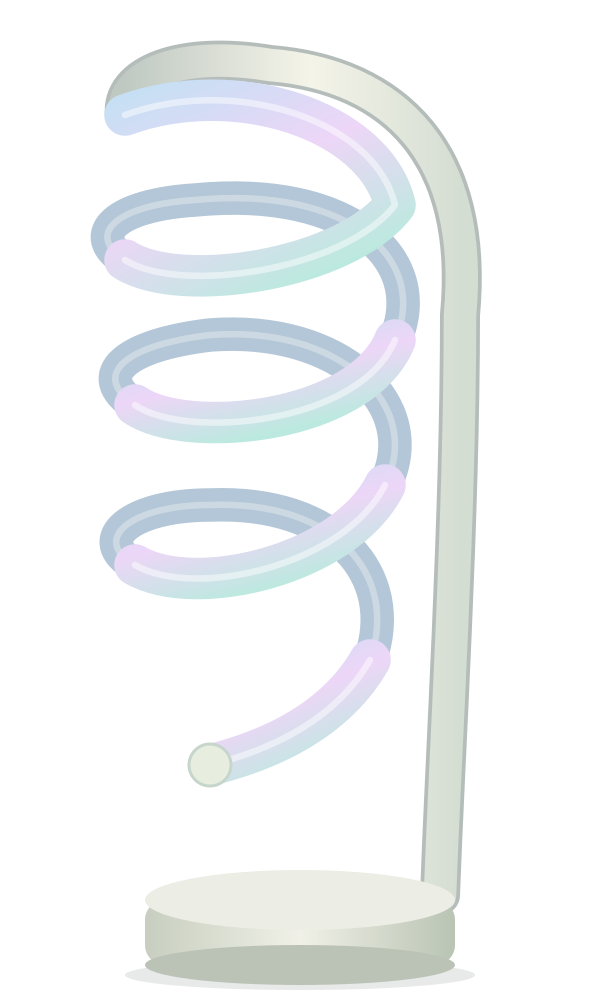
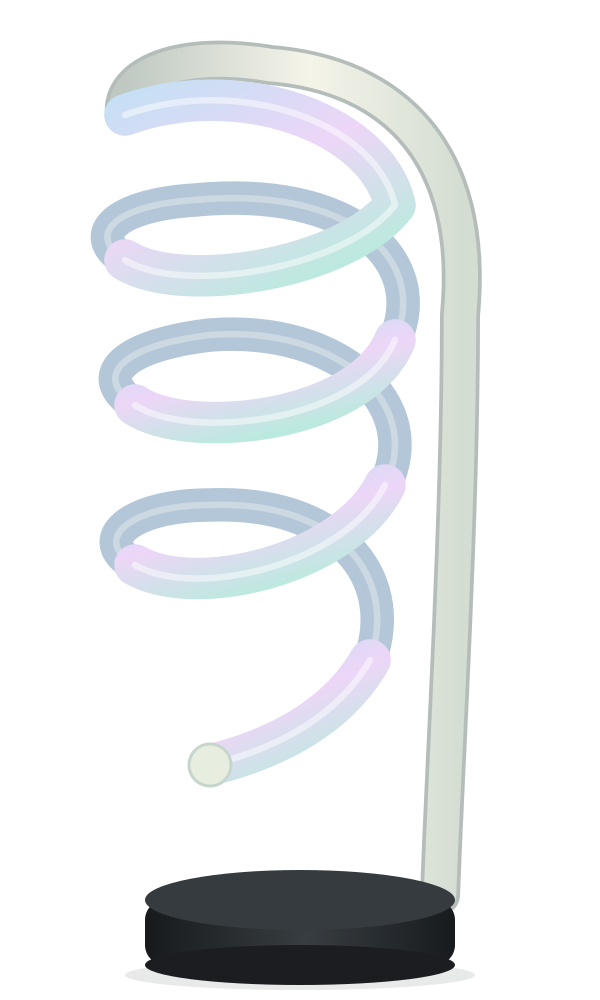
Match the Corkscrew base to the shared lamp palette

Changed region(s): [[0.24, 0.868, 0.78, 0.992]]

diff --git a/mobile/src/lamp-artwork.js b/mobile/src/lamp-artwork.js
@@ -6,17 +6,12 @@ let sequence=0;
 const escape=value=>String(value).replace(/[&<>"']/g,char=>({'&':'&amp;','<':'&lt;','>':'&gt;','"':'&quot;',"'":'&apos;'}[char]));
 export const LAMP_ARTWORK_DARK_PALETTE=Object.freeze({frame:'#93a196',baseStart:'#849187',baseMiddle:'#9daa9f',baseEnd:'#7f8d81',baseTop:'#abb6a9',baseBottom:'#859287'});
 
-function blackBase(id,tones){
- return `<g class="lamp-artwork-base" data-base="dark"><ellipse cx="60" cy="195" rx="35" ry="3" fill="#252b2920"/>
- <rect class="lamp-artwork-base-side" x="31" y="180" width="58" height="13" rx="3" fill="url(#${id}-base)"/>
- <ellipse class="lamp-artwork-base-bottom" cx="60" cy="193" rx="29" ry="4" fill="${tones?.baseBottom||'#1b1d20'}"/>
- <ellipse class="lamp-artwork-base-top" cx="60" cy="180" rx="29" ry="5" fill="${tones?.baseTop||'#363b40'}"/></g>`;
-}
-function whiteBase(id){
- return `<g class="lamp-artwork-base" data-base="light"><ellipse cx="60" cy="195" rx="35" ry="3" fill="#252b291a"/>
- <rect class="lamp-artwork-base-side" x="29" y="180" width="62" height="13" rx="4" fill="url(#${id}-white-base)"/>
- <ellipse class="lamp-artwork-base-bottom" cx="60" cy="193" rx="31" ry="4" fill="#bbc3b7"/>
- <ellipse class="lamp-artwork-base-top" cx="60" cy="180" rx="31" ry="6" fill="#ecede4"/></g>`;
+function blackBase(id,tones,wide=false){
+ const radius=wide?31:29;
+ return `<g class="lamp-artwork-base" data-base="dark"><ellipse cx="60" cy="195" rx="35" ry="3" fill="${wide?'#252b291a':'#252b2920'}"/>
+ <rect class="lamp-artwork-base-side" x="${60-radius}" y="180" width="${radius*2}" height="13" rx="${wide?4:3}" fill="url(#${id}-base)"/>
+ <ellipse class="lamp-artwork-base-bottom" cx="60" cy="193" rx="${radius}" ry="4" fill="${tones?.baseBottom||'#1b1d20'}"/>
+ <ellipse class="lamp-artwork-base-top" cx="60" cy="180" rx="${radius}" ry="${wide?6:5}" fill="${tones?.baseTop||'#363b40'}"/></g>`;
 }
 const ribbon=(path,id,width=8)=>`<path class="lamp-artwork-ribbon" d="${path}" stroke="url(#${id}-light)" stroke-width="${width}"/><path d="${path}" stroke="#ffffff" stroke-opacity=".48" stroke-width="1.3"/>`;
 
@@ -41,7 +36,7 @@ function largeHelix(id,tones){
  ${ribbon('M102 100 C80 88 42 117 31 143 C19 167 37 179 60 177',id,8.8)}
  </g>${blackBase(id,tones)}`;
 }
-function corkscrew(id){
+function corkscrew(id,tones){
  // A separate straight support on the right carries the free hanging spiral.
  const support='M88 179 C89 151 92 104 92 63 C95 31 79 15 54 13 C36 10 24 15 25 23';
  const coil='M25 23 C47 15 75 24 79 41 C69 54 36 59 25 52 C17 47 23 41 39 40 C70 37 86 52 79 68 C72 85 37 88 27 81 C18 75 25 69 42 67 C68 65 85 81 77 97 C69 113 39 120 27 113 C18 108 26 101 42 101 C67 100 80 115 74 132 C66 146 50 151 42 153';
@@ -55,7 +50,7 @@ function corkscrew(id){
  ${ribbon('M77 97 C69 113 39 120 27 113',id,8.3)}
  ${ribbon('M74 132 C66 146 50 151 42 153',id,8.3)}
  <circle cx="42" cy="153" r="4.2" fill="#e7eddf" stroke="#c6d6cc" stroke-width=".6"/>
- </g>${whiteBase(id)}`;
+ </g>${blackBase(id,tones,true)}`;
 }
 function knot(id,tones){
  // An asymmetric outer oval wraps a small standing loop and a diagonal front ribbon.
@@ -83,6 +78,5 @@ export function lampArtworkSvg(style='helix',{className='lamp-artwork',label,idP
  <linearGradient id="${id}-light" x1="0" y1="0" x2=".7" y2="1"><stop stop-color="${colors[0]}"/><stop offset=".5" stop-color="${colors[1]}"/><stop offset="1" stop-color="${colors[2]}"/></linearGradient>
  <linearGradient id="${id}-support" x1="0" y1="0" x2="1" y2="0"><stop stop-color="#bfc9c2"/><stop offset=".55" stop-color="#f5f4e9"/><stop offset="1" stop-color="#d4ddd2"/></linearGradient>
  <linearGradient id="${id}-base" x1="0" y1="0" x2="1" y2="0"><stop class="lamp-artwork-base-start" stop-color="${tones?.baseStart||'#161a1c'}"/><stop class="lamp-artwork-base-middle" offset=".52" stop-color="${tones?.baseMiddle||'#383d41'}"/><stop class="lamp-artwork-base-end" offset="1" stop-color="${tones?.baseEnd||'#171b1e'}"/></linearGradient>
- <linearGradient id="${id}-white-base" x1="0" y1="0" x2="1" y2="0"><stop stop-color="#c7cebf"/><stop offset=".5" stop-color="#f0f0e7"/><stop offset="1" stop-color="#b9c4b3"/></linearGradient>
  </defs>${body}</svg>`;
 }

diff --git a/mobile/src/app-v2.js b/mobile/src/app-v2.js
@@ -36,7 +36,7 @@ export function mountAppV2(api){
     const power=document.createElement('button');power.type='button';power.className='v2-home-power';power.dataset.v2='power';power.dataset.id=id;power.setAttribute('aria-pressed',String(observed.lighting.power));power.setAttribute('aria-label',(observed.lighting.power?'Turn off ':'Turn on ')+(group?groupName(id,group.name):entry.name));power.innerHTML='<svg viewBox="0 0 24 24" aria-hidden="true"><path d="M12 3v8M7 5a8 8 0 1 0 10 0"/></svg>';wrapper.append(power);
   }
   if(focused?.action){const replacement=[...home.querySelectorAll('[data-v2]')].find(button=>button.dataset.v2===focused.action&&button.dataset.id===focused.id);replacement?.focus({preventScroll:true});}
-  document.getElementById('v2Version').textContent='CoolLamp 2.0.1';
+  document.getElementById('v2Version').textContent='CoolLamp 2.0.2';
  }
  function chooseLight(section='lighting'){
   const model=api.model();sheet('Choose your lights',`<p>Choose a lamp. We’ll find its best available connection.</p>${section==='lighting'?(model.groups||[]).map(g=>`<button class="v2-choice" data-v2="open-group" data-id="${esc(g.id)}"><strong>${esc(groupName(g.id,g.name))}</strong><small>Shared group lighting</small>${icon('arrow')}</button>`).join(''):''}${(model.lamps||[]).map(l=>`<button class="v2-choice" data-v2="select-settings" data-section="${section}" data-id="${esc(l.id)}"><strong>${esc(l.name)}</strong><small>${esc(room(l.id))}</small>${icon('arrow')}</button>`).join('')||'<p>Add a lamp to get started.</p>'}<button class="secondary" data-v2="add">Add a lamp</button>`);
